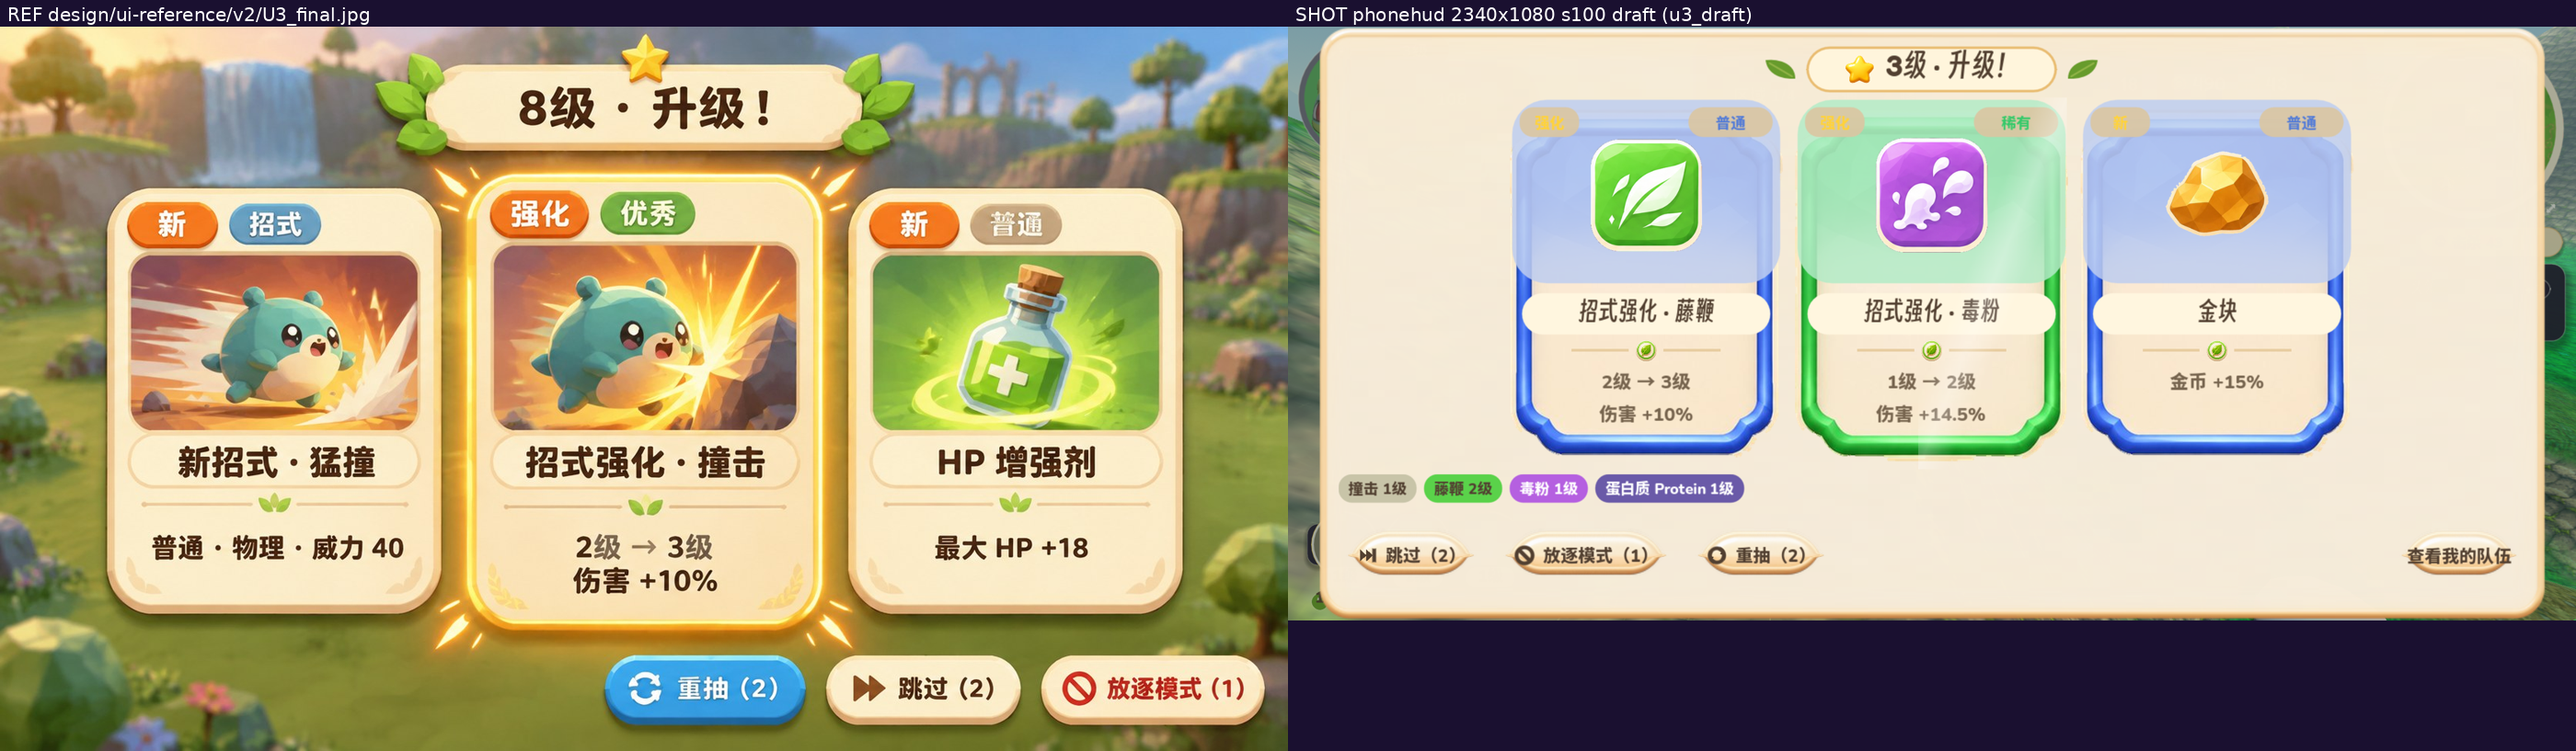
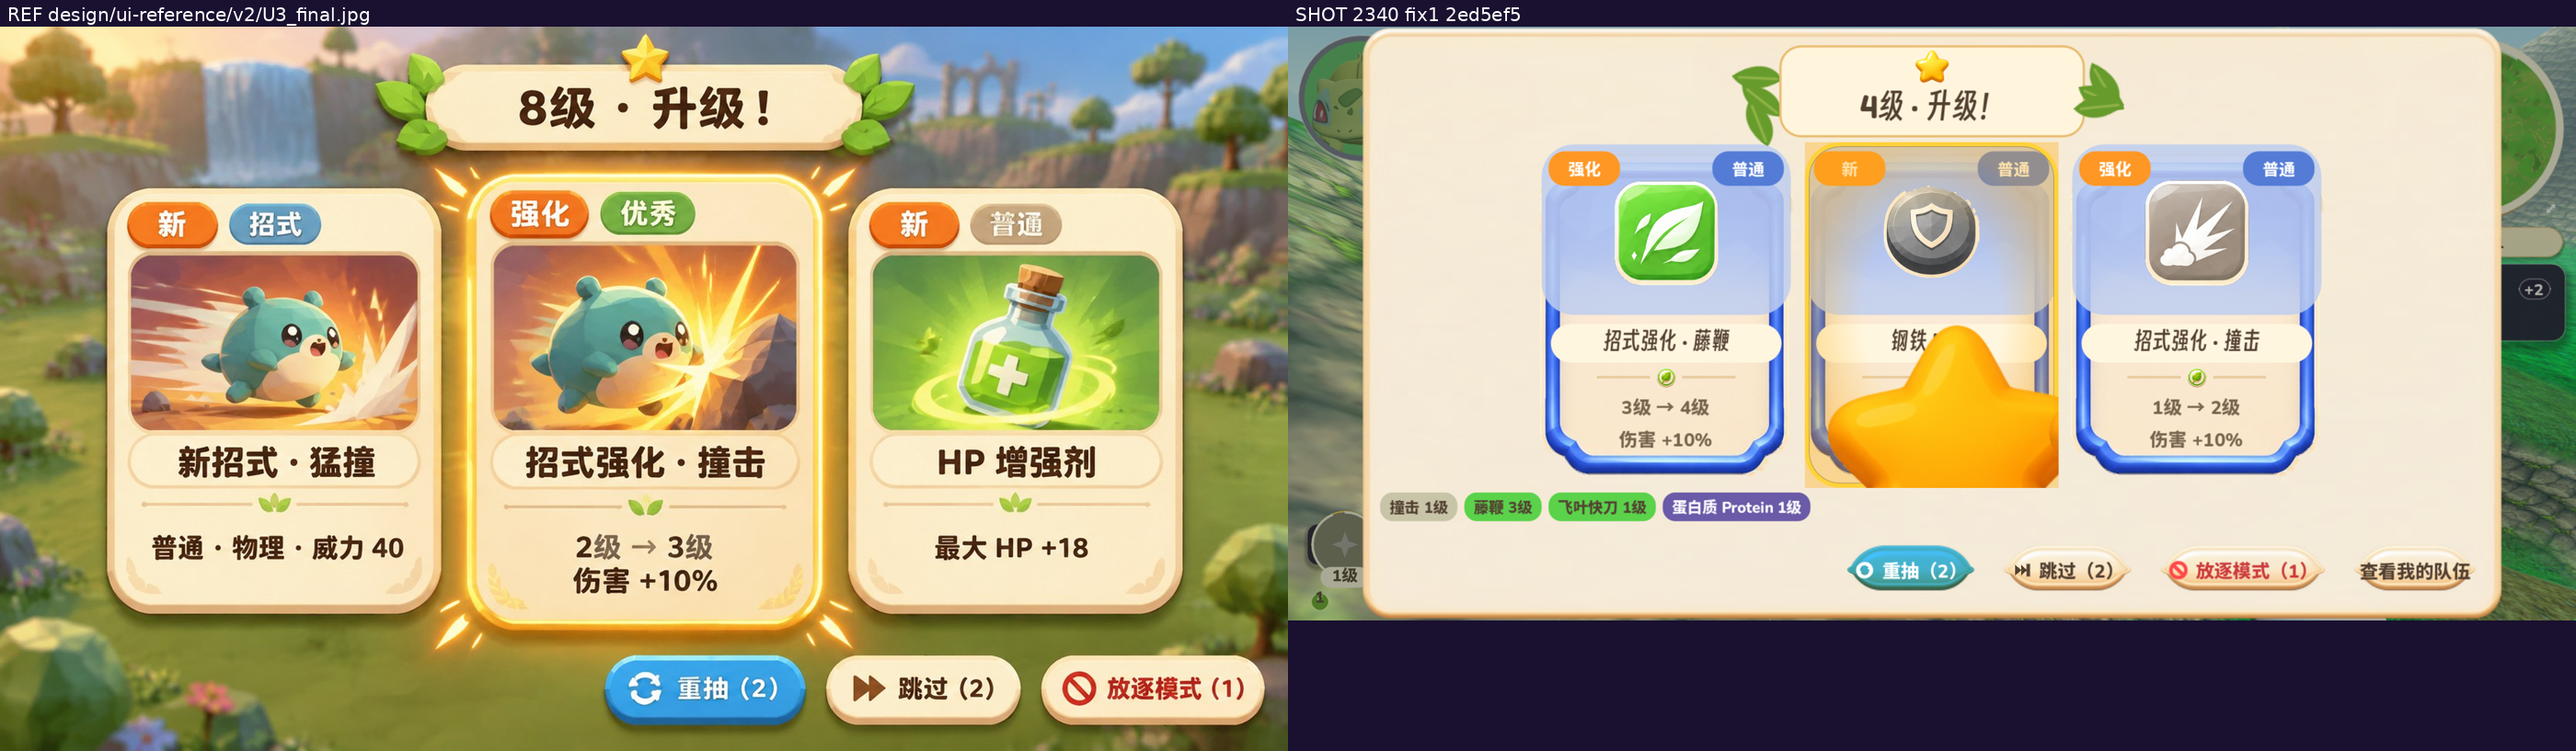
Ledger: U3 fix1 parallel verification (15:11 round, corroborates 4b9d343); fix1 compare pair filed

Changed region(s): [[0.4971, 0.0, 0.9943, 0.8262]]

diff --git a/design/ui-alignment-progress.md b/design/ui-alignment-progress.md
@@ -571,3 +571,19 @@ U1 已重开，U3 不得开工（见「关闭门」）。第 9 轮：2340 复验
   - ③ 主推卡 ✗：金边＋内辉已落地（金 rim 在位），但中卡正中出现一颗巨型金星（约 465×310 屏 px @2400 档），遮住标题 pill 右半与描述区，并溢出卡底边——fix1 新增缺陷；fix 前草案验证拍（2340 档）无此星。代码侧核查：`_draft_card` 的 fx 叠层星星按 20×20 构造（scripts/world.gd 约 6022 行），构造代码本身无放大路径；巨星来源待二分定位。
 - 结论：**U3 不关闭**（检查全绿只是必要条件，本轮再次实证）。fix2 处方：先摘掉 fx 的四颗 20px 星星单独取一张 draft 图二分——星消失＝星星层在 P5 拟合路径下被放大，改以 rim Panel 的 draw 回调绘制星芒或用 CenterContainer 承载定尺；星仍在＝继续查其他 star_filled 消费者。星星最终只许以约 20 设计 px 出现在主推卡四角／中缘。改完只跑双档 s100 批复拍、重建 compare、主控再亲检。①②④ 已达标，勿再动；⑤ 大面板约束与 ⑥ 画板豁免维持在案。
 - 附注：fix1 双档 compare 因 VM→NUC 大文件传输中断未随本节入库；主控亲检用的 compare 由 NUC 本地捕获（Test/out/phone_hud_touch_2400x1080_s100_i0_draft.png 14:58、…_2340… 15:11）经 Test/make_compare_u3.py 在本机构建，下轮在 NUC 本地重建 compare/U3.png 与 compare/U3_2400.png 入库即可（同一脚本同一输入）。
+
+## U3 fix1 平行验证：三项落地、巨星缺陷，U3 不关闭（2026-11-14 15:11–16:0x 轮，并行验证 worker）
+
+- 本轮为与协调方并行的独立验证（非 4b9d343 的复述）：验证批 `Test/u3_fix1_run.sh`（HEAD 2ed5ef5）已 ALLDONE 15:13:37——2400 s100 **1564/0**、2340 s100 **1564/0**，双腿 rc=0、SCRIPT ERROR 0 条。防撞：起跑时无 Godot 在跑（锚定 pgrep 空），.done 已 ALLDONE，可直接接续。
+- 取图：`phone_hud_touch_2400x1080_s100_i0_draft.png`（14:58）与 `phone_hud_touch_2340x1080_s100_i0_draft.png`（15:11）已 pull_from_nuc 验数拉回（2 文件 2,494,543 字节）；`compare/U3.png` 与 `compare/U3_2400.png` 已用 `Test/make_compare_u3.py` 重建。
+- 原始图行列扫描量测（2400×1080 原图；2340 档同几何、仅 −30px 平移）：
+  - ① 横幅 ✓：金星居中压 pill 顶沿（左右叶簇中心 877／1502，pill 中心 ≈1190）、左右三叶簇贴 pill 端（84×97／89×97 屏 px）、pill 已加宽、标题在星下。
+  - ② 卡顶 pills ✓：实心＋白字——橙 (255,151,36)、蓝 (84,124,214)、绿实心；带 y 227..294、高约 67 屏 px。
+  - ④ 工具行 ✓：重抽蓝实心居首（229×65，x 1046..1275，y 944..1009），顺序 重抽／跳过／放逐、整行右置；「查看我的队伍」保留在右。
+  - ③ 主推卡 ✗：金边＋内辉已落地，但中卡正中一颗巨型金星（约 350×300 屏 px @2400 档，约占卡宽 72%，纵贯卡下半部），遮住标题 pill 右半与描述区。根因与协调方一致：fix1 星星用自由 position/size（`st.size = 20×20`、`st.position = sp`），在 P5 拟合路径下被放大成单颗居中巨星（协调方二分实证：清空该循环即去星）。
+- 结论：**U3 不关闭**——与 4b9d343 独立同判（检查全绿只是必要条件）。①②④ 已达标，勿再动；⑤ 大面板约束与 ⑥ 画板豁免维持在案。
+- 并行工作记录（本轮内观测）：协调方已提交 4b9d343（15:20，fix1 亲检）与 b8a3315（15:32，fix2：星星改 anchor/offset 几何），并启动验证批 `Test/u3_fix2_run.sh`（15:32:50，HEAD b8a3315）；本轮查时 2400 腿已 ALLDONE **1564/0**、2340 腿在跑——按防撞规则本轮不双开、不另起批。
+- 证据保全：fix1 2400 快照在 NUC 侧于 15:45 被 fix2 批 P5 新 snap 覆盖（同名文件）；已凭本机拉回件（md5 e20d5724e8db47dc881276194655f764）分片（5×300KB）重传 NUC，拼接后 md5 核对一致，存 `Test/out/phone_hud_touch_2400x1080_s100_i0_draft_fix1.png`；双档 compare 已在 NUC 侧用核验过的快照重建（U3.png 2340／U3_2400.png 2400）并随本节入库。附注：NUC 与本机构建的 compare 经逐像素 raw-md5 核对一致（cfa74eaf／33d2add5）；本机 15:24 首版 compare 为拉回窗口期内的异常构建（巨星缺失），已由 16:03 重建取代，勿用旧件。
+- 传输记录：VM→NUC 整包 rsync 两次中断（15:47 "Connection closed by UNKNOWN port 65535"、15:49 Broken pipe），约 15:48 自愈；300KB 分片＋逐片重试可稳过，大文件仍走分片。
+- **断点（下一轮）**：先读 `Test/out/u3_fix2.done`（两档绿、FAIL=0；checks 1549 与 1564 均接受），取新的 `phone_hud_touch_*_draft.png` 双档快照（注意：fix1 快照现仅存 `..._draft_fix1.png` 与本机副本），核巨星已去、四枚约 20px 金星落在卡角／中缘后重建 compare、逐项亲检再议 U3 签核。Notion 对齐单未动（U3 未关闭）。
+- 本轮提交（align-fix13，已推送，`git ls-remote` 核验 origin 与本地同 SHA）：本节台账＋fix1 双档 compare（`compare/U3.png`、`compare/U3_2400.png`）。
